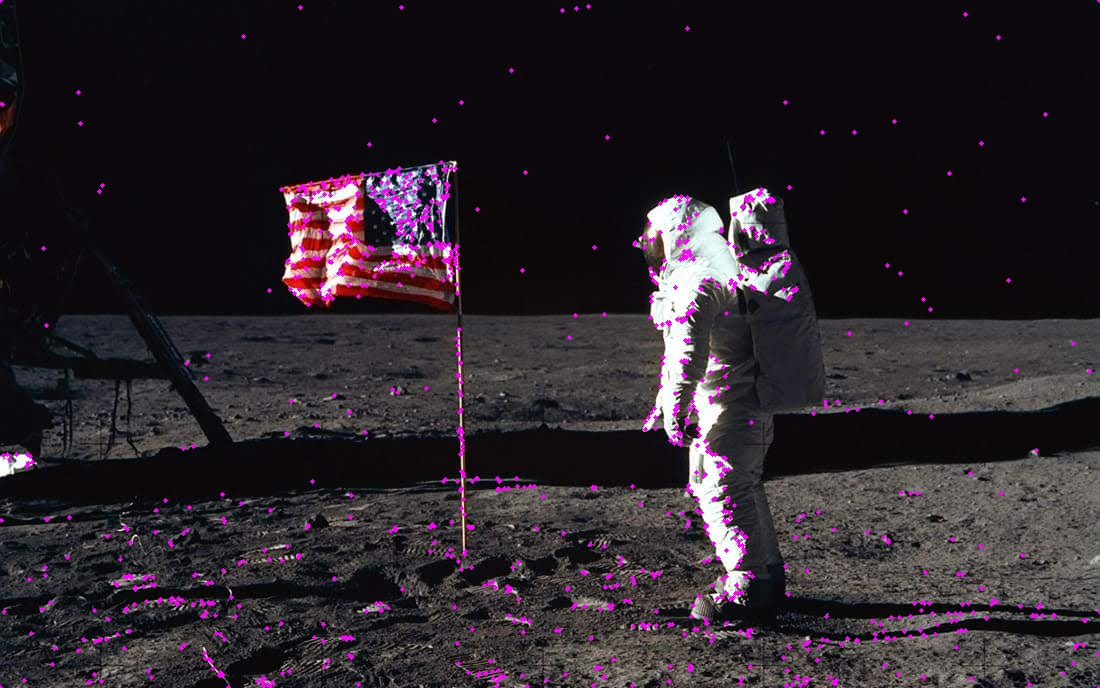
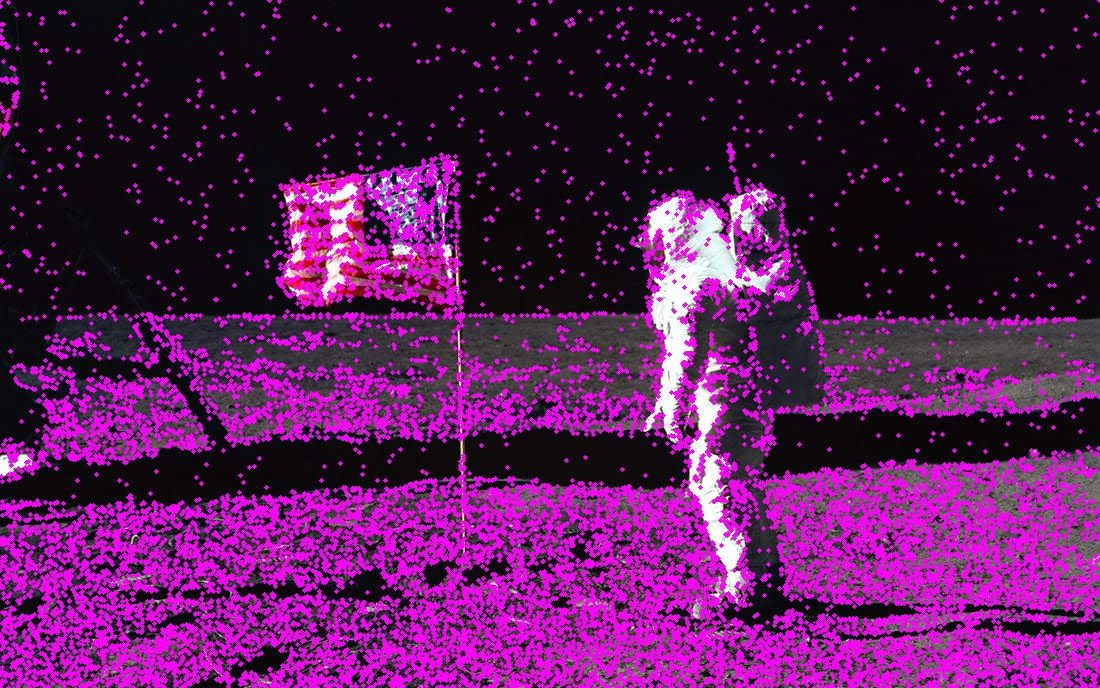
make some progress sharpening image

diff --git a/py-detect-features/lambda_function.py b/py-detect-features/lambda_function.py
@@ -20,6 +20,7 @@ import numpy as np
 BUCKET_NAME = 'lowpoly'
 IS_LOCAL = False
 UPLOAD_ANYWAY = False
+SHOW = True
 
 predictor_path = os.path.join(
     os.path.dirname(__file__),
@@ -73,16 +74,14 @@ def identify_points_by_key_points(img, max_points):
     return points
 
 
-def identify_points_by_canny_edge_detection(img, max_points, min_points):
+def identify_points_by_canny_edge_detection(img, low_thresh, high_thresh, percent=0.15):
     """
-    Method: canny edge detection
+    Method: canny edge detection. `img` should be grayscale.
     """
-
-    # TODO: Pretty sure the img is supposed to be grayscale
 
     # Here is where we can explore how canny is used https://github.com/ghostwriternr/lowpolify/blob/master/scripts/lowpolify.py#L135
 
-    edges = cv2.Canny(img, 300, 500)
+    edges = cv2.Canny(img, low_thresh, high_thresh)
 
     # from matplotlib import pyplot as plt
     # plt.subplot(121)
@@ -98,15 +97,15 @@ def identify_points_by_canny_edge_detection(img, max_points, min_points):
     # plt.show()
 
     #
-    # The following was copied from lowpolify. I am going to rewrite it, but
-    # trying to understand it.
+    # The following was largely copied from lowpolify. I am going to rewrite
+    # it, but when I have the time to understand it first.
+    # TODO: Understand and rewrite the rest of this function.
     #
 
     # Set number of points for low-poly edge vertices. This is a subset of all
     # points.
-    num_points = int(np.where(edges)[0].size * 0.15)
-    num_points = min(num_points, max_points)  # I want no more than max_points
-    num_points = max(num_points, min_points)  # I want no fewer than min_points
+    num_points = int(np.where(edges)[0].size * percent)
+    print 'num_points:', num_points
     # Return the indices of the elements that are non-zero.
     # 'nonzero' returns a tuple of arrays, one for each dimension of a,
     # containing the indices of the non-zero elements in that dimension.
@@ -127,12 +126,17 @@ def identify_points_by_canny_edge_detection(img, max_points, min_points):
     # is still a list of indices since `rnd`` is a list of booleans.
     row_indices = row_indices[rnd]
     col_indices = col_indices[rnd]
-    # Number of rows and columns in image
-    shape = img.shape
-    row_max = shape[0]
-    col_max = shape[1]
+    # # Number of rows and columns in image
+    # shape = img.shape
+    # row_max = shape[0]
+    # col_max = shape[1]
     # Co-ordinates of all randomly chosen points
     numpy_points = np.vstack([row_indices, col_indices]).T
+
+    #
+    # This addtion is me. I should probably move everything toward numpy, away
+    # from lists.
+    #
     # Turn into python list, tuples, and ints
     points = []
     for p in numpy_points:
@@ -149,6 +153,8 @@ def identify_facial_landmarks(img):
 
     points = []
     face_bounds = []  # Calculate face bounds from landmarks, not face detector
+
+    # TODO: Uncomment all this for a working DLib
 
     # detector = dlib.get_frontal_face_detector()
     # predictor = dlib.shape_predictor(predictor_path)
@@ -197,7 +203,64 @@ def identify_filler_points(img, current_points):
     return points
 
 
-def identify_points(img, options):
+def preprocess_img(img):
+    """
+    Process the image to prepare it for computer vision. This entails handling
+    single-channel images as well as sharpening color images in grayscale.
+    """
+
+    # Make single-channel image into three-channel image
+    if img.shape[2] == 1:
+        img = img.dstack([img, img, img])
+        # TODO: Not sure this actually works, for now may just want to abort
+
+    # TODO: Consider re-sizing the image. https://github.com/ghostwriternr/lowpolify/blob/master/scripts/lowpolify.py#L222
+
+    # Reduce noise
+    noiseless_img = cv2.fastNlMeansDenoisingColored(img, None, 10, 10, 7, 21)
+
+    # Create a grayscale image
+    gray_img = cv2.cvtColor(noiseless_img, cv2.COLOR_BGR2GRAY)
+
+    # # Consider normalizing the gray_img
+    # clahe = cv2.createCLAHE()
+    # normalized_gray_img = clahe.apply(gray_img)
+    # # Display a window to compare normalized gray image
+    # if SHOW:
+    #     compare = np.hstack([gray_img, normalized_gray_img])
+    #     cv2.imshow('gray images', compare)
+    #     cv2.waitKey(0)
+    #     cv2.destroyAllWindows()
+
+    # Use YCbCr color model then grab first dimension. Needed for thresholds.
+    ycbcr_img = cv2.cvtColor(noiseless_img, cv2.COLOR_RGB2YCrCb)
+    for x in range(ycbcr_img.shape[0]):
+        for y in range(ycbcr_img.shape[1]):
+            ycbcr_img[x][y] = ycbcr_img[x][y][0]
+    ycbcr_img = ycbcr_img[:, :, 0]
+
+    # Calculate thresholds
+    high_thresh, thresh_img = cv2.threshold(
+        ycbcr_img, 0, 255, cv2.THRESH_BINARY + cv2.THRESH_OTSU)
+    low_thresh = 0.5 * high_thresh
+    if SHOW and False:  # tmp False
+        cv2.imshow('Threshold Image', thresh_img)
+        cv2.waitKey(0)
+        cv2.destroyAllWindows()
+
+    # Sharpen a blurred image. This helps define the edges.
+    blurred_gray_img = cv2.GaussianBlur(gray_img, (0, 0), 3)
+    sharp_gray_img = cv2.addWeighted(gray_img, 2.5, blurred_gray_img, -1, 0)
+    if SHOW and False:
+        compare = np.hstack([blurred_gray_img, sharp_gray_img])
+        cv2.imshow('Sharp gray image', compare)
+        cv2.waitKey(0)
+        cv2.destroyAllWindows()
+
+    return img, sharp_gray_img, low_thresh, high_thresh
+
+
+def identify_points(img, gray_img, options):
     """
     Use a method to identify points
     """
@@ -219,7 +282,7 @@ def identify_points(img, options):
         facial_landmarks, face_bounds = identify_facial_landmarks(img)
     if options['canny']:
         canny_edges = identify_points_by_canny_edge_detection(
-            img, max_points, min_points)
+            gray_img, options['low_thresh'], options['high_thresh'])
 
     # Aggregate points
     points = grid_points + key_points + canny_edges
@@ -279,17 +342,20 @@ def lambda_handler(event, context):
 
     # Analyze image (https://docs.opencv.org/2.4/modules/imgproc/doc/feature_detection.html)
     # Much above 1000 takes too long for delaunay triangulation
+    img, sharp_gray_img, low_thresh, high_thresh = preprocess_img(img)
     options = {
         'grid_points': False,
         'key_points': False,
-        'facial_landmarks': True,
+        'facial_landmarks': True,  # Code is commented out in the
         'canny': True,
         'random': True,
-        'max_points': 1000,  # Will need to restrict max here.
+        'max_points': 9999,
         'min_points': 100,
+        'low_thresh': low_thresh,
+        'high_thresh': high_thresh,
     }
-    points, face_bounds = identify_points(img, options)
-    print 'num_points:', len(points)
+    points, face_bounds = identify_points(img, sharp_gray_img, options)
+    print 'count:', len(points)
 
     # Draw on img
     for point in points:

diff --git a/README.md b/README.md
@@ -121,7 +121,9 @@ lein lambda deploy production
 ## To Do
 
 - Now
-  - Do the necessary pre-processing before running Canny Edge Detection (maybe this is the same pre-processing for DLib, but probably different)
+  - Pre-processing
+  - Turn on DLib
+  - Use Numpy arrays instead of Lists
 
 - Later
   - UI
